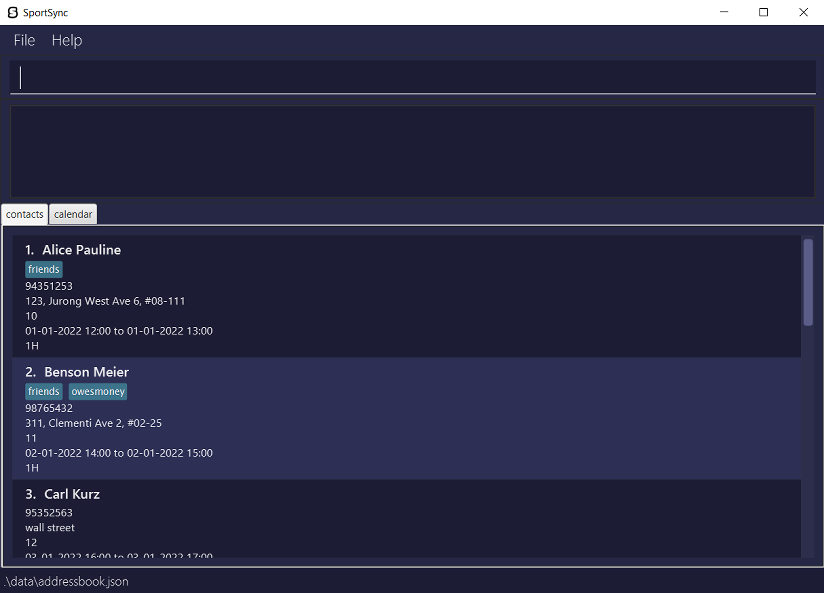
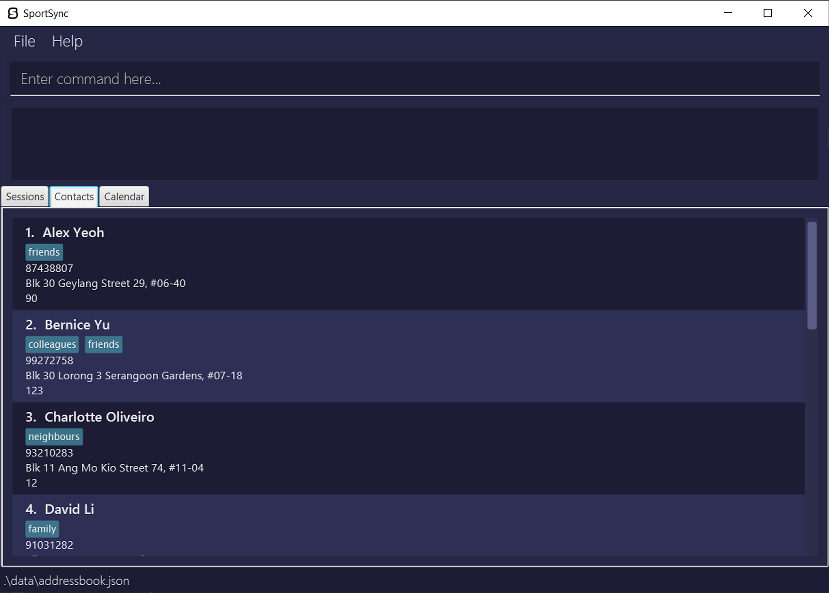
Add additional images to UG and fix image formatting.

diff --git a/docs/UserGuide.md b/docs/UserGuide.md
@@ -19,7 +19,13 @@ Ensure that you have Java 11 or above installed on your computer. If you don't h
 
 3. Open a command terminal, `cd` into the folder you put the jar file in, and use the `java -jar sportsync.jar` command to run the application.<br>
    e.g. `cd Desktop\New_Folder` and then `java -jar sportsync.jar`<br>
-   A GUI similar to the below should appear in a few seconds. Note how the app contains some sample data.<br>
+
+
+   A GUI similar to the below should appear in a few seconds. This shows the session list, which is currently empty.<br>
+   Below that is the income analytics, which tabulates how much you've earned through your sessions.<br><br>
+   ![EmptySessionUi](images/EmptySessionUi.png)<br><br>
+   Click the `Contacts` tab, or press the shortcut `CTRL + 2`. You have just navigated to the contact list.<br>
+   Note how the app contains some sample data.<br><br>
    ![Ui](images/Ui.png)
 
 4. Type the command in the command box and press Enter to execute it. e.g. typing **`help`** and pressing Enter will open the help window.<br>
@@ -37,12 +43,16 @@ Ensure that you have Java 11 or above installed on your computer. If you don't h
 
 Refer to the [Features](#features) below for details of each command.
 
+5. Click the `Calendar` tab, or press the shortcut `CTRL + 3`. You have just navigated to the calendar, which is currently empty.<br>
+   All future scheduled sessions will automatically show up on the calendar.<br><br>
+   ![Ui](images/EmptyCalendarUi.png)<br>
+
 <div markdown="span" class="alert alert-primary">:bulb: **Tip:**
 Here are some useful shortcuts that can help you save time:<br>
 **F1**: Opens the help menu.
-**CTRL + 1**: Switches to the session tab.
-**CTRL + 2**: Switches to the contacts tab.
-**CTRL + 3**: Switches to the calendar tab.
+**CTRL + 1**: Switches to the `Sessions` tab.
+**CTRL + 2**: Switches to the `Contacts` tab.
+**CTRL + 3**: Switches to the `Calendar` tab.
 </div>
 
 --------------------------------------------------------------------------------------------------------------------

diff --git a/docs/DeveloperGuide.md b/docs/DeveloperGuide.md
@@ -129,7 +129,7 @@ The `Model` component,
 
 <div markdown="span" class="alert alert-info">:information_source: **Note:** An alternative (arguably, a more OOP) model is given below. It has a `Tag` list in the `AddressBook`, which `Person` references. This allows `AddressBook` to only require one `Tag` object per unique tag, instead of each `Person` needing their own `Tag` objects.<br>
 
-<img src="images/ModelClassDiagram3.png" width="450" />
+<img src="images/BetterModelClassDiagram.png" width="450" />
 
 </div>
 
